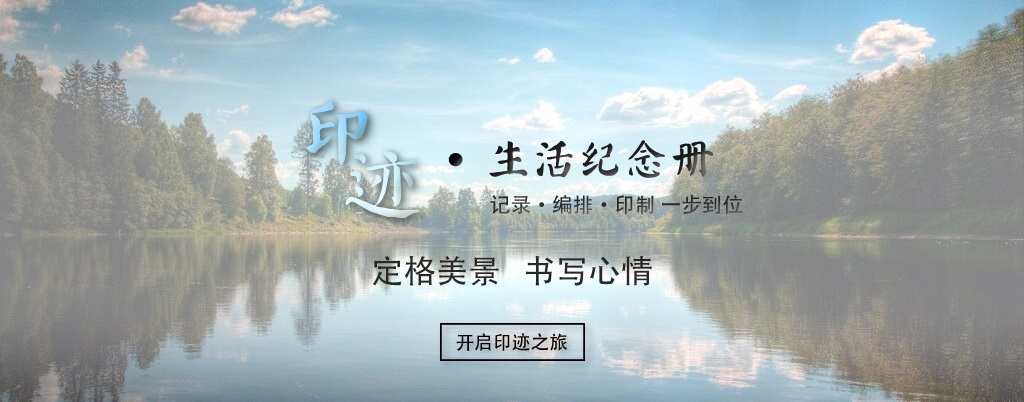
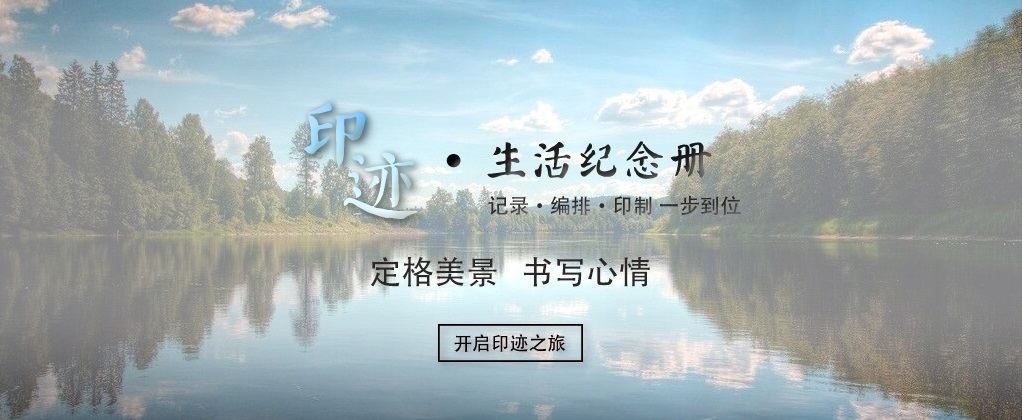
首页照片大小调整

diff --git a/resources/views/home.blade.php b/resources/views/home.blade.php
@@ -66,24 +66,24 @@
 	@if(isset($_SESSION['ifLoggedIn'])&&$_SESSION['ifLoggedIn']=='y')
 			<div class="top-nav">
 						<ul class="res" > 
-							<li class = "topLine"><a href="#">纪念册</a>
+							<li class = "topLine"><a href="">纪念册</a>
 								<ul>
 									<li class = "spec"><a href="/showAlbums">查看纪念册</a></li>
 									<li><a href="/create_album">创建纪念册</a></li>
 								</ul> 
 							</li>
-							<li class = "topLine"><a href="#">刊印</a>
+							<li class = "topLine"><a href="">刊印</a>
 								<ul>
 									<li class = "spec"><a href="/orderInfo">查看订单</a></li>
 								</ul> 
 							</li>
-							<li class = "topLine"><a href="#">个人信息</a>
+							<li class = "topLine"><a href="">个人信息</a>
 								<ul>
 									<li class = "spec"><a href="/user-information">查看个人信息</a></li>
-									<li><a href="#">管理收货地址</a></li>
+									<li><a href="">管理收货地址</a></li>
 								</ul> 
 							</li>
-							<li class = "topLine"><a href="#">联系我们</a></li>
+							<li class = "topLine"><a href="">联系我们</a></li>
 						</ul>
 					</div>
 				</div>
@@ -100,16 +100,16 @@
 		@else
 			<div class="top-nav">
 						<ul class="res" > 
-							<li class = "topLine"><a href="#">服务</a>
+							<li class = "topLine"><a href="">服务</a>
 								 <ul>
-									<li class = "spec"><a href="#">纪念册</a></li>
-									<li><a href="#">刊印</a></li>
+									<li class = "spec"><a href="">纪念册</a></li>
+									<li><a href="">刊印</a></li>
 								</ul> 
 							</li>
-							<li class = "topLine"><a href="#">关于</a>
+							<li class = "topLine"><a href="">关于</a>
 								
 							</li>
-							<li class = "topLine"><a href="#">联系我们</a></li>
+							<li class = "topLine"><a href="">联系我们</a></li>
 						</ul>
 					</div>
 				</div>
